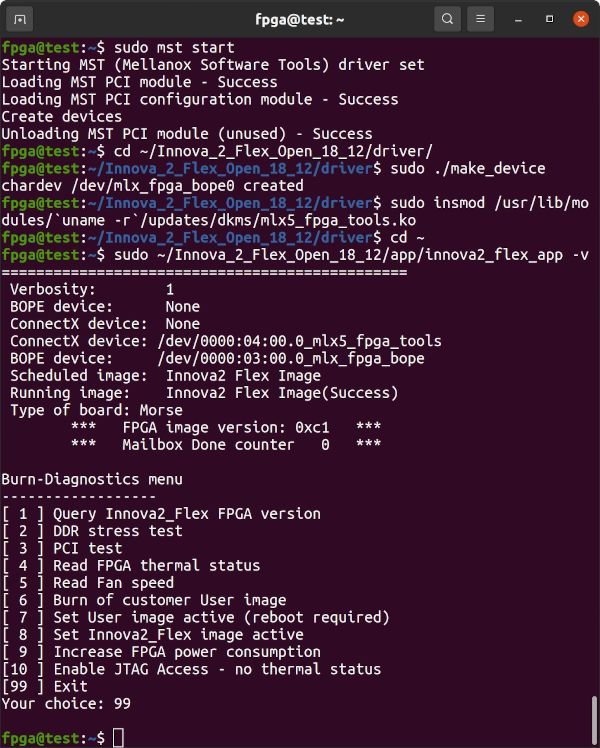
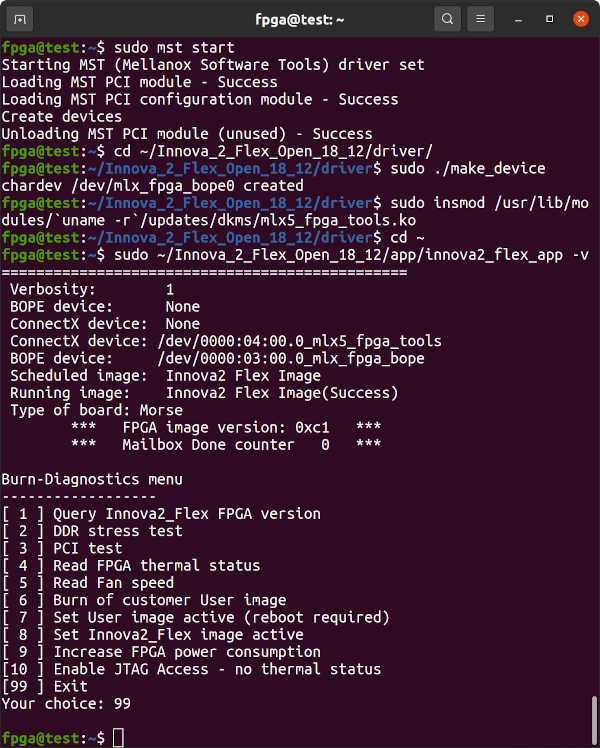
Reduce Image Size

diff --git a/README.md b/README.md
@@ -408,7 +408,7 @@ to
 network_devices = [network_class, cavium_pkx, avp_vnic, ifpga_class, xilinx_qdma_pf, xilinx_qdma_vf]
 ```
 
-![edit dpdk-devbind.py](img/editing_dpdk-devbind_py.png)
+![edit dpdk-devbind.py](img/editing_dpdk-devbind_py.jpg)
 
 
 Build DPDK:
@@ -484,7 +484,7 @@ Above should produce output similar to:
    Cause: No Ethernet devices found. Try updating the FPGA image.
 ```
 
-![QDMA testapp runs](img/qdma_testapp-shared_runs_successfully.png)
+![QDMA testapp runs](img/qdma_testapp-shared_runs_successfully.jpg)
 
 
 #### Generate Personal Signing Key
@@ -730,7 +730,7 @@ sudo mst status
 sudo flint --device /dev/mst/mt525_pciconf0 query
 ```
 
-![ConnectX-5 in Recovery Mode](img/Innova2_ConnectX-5_in_Recovery_Mode.png)
+![ConnectX-5 in Recovery Mode](img/Innova2_ConnectX-5_in_Recovery_Mode.jpg)
 
 Save a copy of the current FLASH IC firmware then program the ConnectX-5 firmare using `mstflint`. The device name is the PCI address from `lspci -vnn`
 ```
@@ -767,7 +767,7 @@ Program the ConnectX-5 firmare a second time using `mstflint`'s Write Image comm
 sudo mstflint --allow_rom_change  --device 01:00.0  --image fw-ConnectX5-rel-16_24_4020-MNV303212A-ADL_Ax.bin  burn
 ```
 
-![Update ConnectX-5 Firmware Using mstflint](img/mstflint_Update_Firmware.png)
+![Update ConnectX-5 Firmware Using mstflint](img/mstflint_Update_Firmware.jpg)
 
 Power cycle the Innova-2 system. Completely power off, wait 15 seconds, then power back on. Confirm the ConnectX-5 firmware has been updated.
 
@@ -835,7 +835,7 @@ Confirm FLASH IC reads are sensible. Notice the `ab cd ef 00 fa de 12 34 56 78 d
 od -A x -t x1z -v W25Q128save.bin  |  head
 ```
 
-![confirm flashrom reads are sensible](img/Confirm_flashrom_Reads_are_Sensible.png)
+![confirm flashrom reads are sensible](img/Confirm_flashrom_Reads_are_Sensible.jpg)
 
 If `flashrom` successfully detected the `W25Q128.V` and reads are consistent, then the requirement for sensible reads is a judgement call on your part.
 
@@ -869,7 +869,7 @@ sudo mlxfwreset --device /dev/mst/mt4119_pciconf0 reset
 sudo flint --device /dev/mst/mt4119_pciconf0 query
 ```
 
-![flint set GUID MAC](img/flint_set_GUID_and_MAC.png)
+![flint set GUID MAC](img/flint_set_GUID_and_MAC.jpg)
 
 Power down and restart your system.
 
@@ -886,7 +886,7 @@ sudo mst cable add
 sudo mlxcables
 ```
 
-![mlxcables](img/mlxcables.png)
+![mlxcables](img/mlxcables.jpg)
 
 The Innova-2 interfaces show up as `enp4s0f0` and `enp4s0f1` or similar.
 ```Shell
@@ -948,11 +948,11 @@ cd ~
 sudo ~/Innova_2_Flex_Open_18_12/app/innova2_flex_app -v
 ```
 
-![Flex Image Version](img/Flex_Image_Version.png)
+![Flex Image Version](img/Flex_Image_Version.jpg)
 
 If the FPGA Image is *NOT* Version `0xc1`, choose option `10`-enter to enable JTAG then `99`-enter to exit.
 
-![Enable JTAG](img/Enable_JTAG_Access.png)
+![Enable JTAG](img/Enable_JTAG_Access.jpg)
 
 
 
@@ -1032,7 +1032,7 @@ Select `mt25qu512-spi-x1_x2_x4_x8`.
 
 Program the complete memory images.
 
-![Program Complete Memory Image](img/Program_Complete_Memory_Image.png)
+![Program Complete Memory Image](img/Program_Complete_Memory_Image.jpg)
 
 Once programming finishes, which can take hours, power everything down and disconnect the JTAG adapter.
 
@@ -1066,7 +1066,7 @@ These instructions include a link to a bitstream for a working demo. Otherwise, 
 
 Select *bin*, *mt25qu512_x1_x2_x4_x8*, *SPIx8*, *Load bitstream files*, and a location and name for the output binary files. The bitstream will end up, for example, in the `DESIGN_NAME/DESIGN_NAME.runs/impl_1` subdirectory as `SOMETHING.bit`. Vivado will add the `_primary.bin` and `_secondary.bin` extensions as the Innova-2 uses dual MT25QU512 FLASH ICs in x8 for high speed programming.
 
-![Vivado Write Memory Configuration File](img/Vivado_Write_Memory_Configuration_File.png)
+![Vivado Write Memory Configuration File](img/Vivado_Write_Memory_Configuration_File.jpg)
 
 Before using `innova2_flex_app` for programming, **disconnect any JTAG adapter** (unplug its USB cable).
 
@@ -1116,7 +1116,7 @@ sudo ~/Innova_2_Flex_Open_18_12/app/innova2_flex_app -v \
   -b innova2_xdma_demo_secondary.bin,1
 ```
 
-![Program Innova-2 User Image](img/Program_User_Image.png)
+![Program Innova-2 User Image](img/Program_User_Image.jpg)
 
 Reboot your system.
 ```
@@ -1362,7 +1362,7 @@ sudo ./mlxup --version
 sudo ./mlxup
 ```
 
-![mlxup](img/mlxup.png)
+![mlxup](img/mlxup.jpg)
 
 The latest firmware [directy downloadable](http://www.mellanox.com/downloads/firmware/fw-ConnectX5-rel-16_26_4012-MNV303212A-ADL_Ax-UEFI-14.19.17-FlexBoot-3.5.805.bin.zip) from Nvidia/Mellanox is **16.26.4012** which is older than the version included with `mlxup 4.15.2`
 
@@ -1391,14 +1391,14 @@ The *Factory Image* (FLASH IC Address `0x00000000`) is *Running* even though the
 
 [Enable JTAG Access](#enable-jtag-access-to-the-xcku15p) and [program the FPGA Configuration Memory to factory default](#programming-the-fpga).
 
-![Factory Image Running](img/Factory_Image_Running_Enable_JTAG.png)
+![Factory Image Running](img/Factory_Image_Running_Enable_JTAG.jpg)
 
 
 ### Innova2 Flex App Will Not Program
 
 Confirm the ConnectX and BOPE Devices are present when running `innova2_flex_app -v`.
 
-![ConnectX and BOPE Devices Present](img/innova2_flex_app_ConnectX_and_BOPE_Devices.png)
+![ConnectX and BOPE Devices Present](img/innova2_flex_app_ConnectX_and_BOPE_Devices.jpg	)
 
 The ConnectX device is created by running `insmod /usr/lib/modules/5.8.0-43-generic/updates/dkms/mlx5_fpga_tools.ko`
 
@@ -1475,7 +1475,7 @@ Jump-to-Innova2-User menu
 Your choice: 99
 ```
 
-![insmod mlx5_fpga_tools](img/innova2_insmod_mlx5_fpga_tools_adds_ConnectX_Device.png)
+![insmod mlx5_fpga_tools](img/innova2_insmod_mlx5_fpga_tools_adds_ConnectX_Device.jpg)
 
 The `make_device` utility creates the BOPE device:
 
@@ -1514,7 +1514,7 @@ Burn-Diagnostics menu
 Your choice: 99
 ```
 
-![innova2 make_device adds BOPE Device](img/innova2_make_device_adds_BOPE_Device.png)
+![innova2 make_device adds BOPE Device](img/innova2_make_device_adds_BOPE_Device.jpg)
 
 Once both BOPE and ConnectX devices exist and the `Flex Image` is the Active Image, you can run `innova2_flex_app` with appropriate `-b` commands to [program a design into the FPGA](#loading-a-user-image). Note the `_primary.bin,0` and `_secondary.bin,1`. Choose option `6`-enter to program the design, then `7`-enter to set the User Image as active, then `99`-enter to exit.
 ```Shell
@@ -1588,7 +1588,7 @@ xsdb% Info: Hart #0 (target 3) Running (FPGA reprogrammed, wait for debugger res
 
 *JTAG Access* must be enabled before attempting to download programs to a Soft Processor Core in the FPGA using JTAG. `3`-Enter then `99`-Enter in `innova2_flex_app`.
 
-![Enable Innova-2 JTAG Access](img/enable_innova2_JTAG_access.png)
+![Enable Innova-2 JTAG Access](img/enable_innova2_JTAG_access.jpg)
 
 `xsdb` then works:
 
@@ -1610,7 +1610,7 @@ The board is well designed with all voltage rails exposed on test points. Carefu
 
 If you are experiencing PCIe communication problems, flip this setting in your BIOS.
 
-![Enable Resizable BAR Support](img/Enable_Re-Size_BAR_Support.png)
+![Enable Resizable BAR Support](img/Enable_Re-Size_BAR_Support.jpg)
 
 ### Disable or Enable Above-4G Memory Decoding
 
@@ -1673,7 +1673,7 @@ cd ~
 sudo ~/Innova_2_Flex_Open_18_12/app/innova2_flex_app -v
 ```
 
-![Enable JTAG on the Innova-2](img/UrJTAG_Enable_JTAG_on_Innova2_Flex.png)
+![Enable JTAG on the Innova-2](img/UrJTAG_Enable_JTAG_on_Innova2_Flex.jpg)
 
 #### Disconnect the Innova-2 FPGA from the PCIe Bridge
 
@@ -1682,14 +1682,14 @@ sudo ~/Innova_2_Flex_Open_18_12/app/innova2_flex_app -v
 sudo setpci  -s 02:08.0  0x70.w=0x50
 ```
 
-![Disconnect FPGA from PCIe Bridge](img/setpci_Disconnect_FPGA_from_PCIe_Bridge.png)
+![Disconnect FPGA from PCIe Bridge](img/setpci_Disconnect_FPGA_from_PCIe_Bridge.jpg)
 
 It can later be re-enabled with the following command or a cold reboot.
 ```Shell
 sudo setpci  -s 02:08.0  0x70.w=0x40
 ```
 
-![Disconnect FPGA from PCIe Bridge](img/setpci_Reconnect_FPGA_to_PCIe_Bridge.png)
+![Disconnect FPGA from PCIe Bridge](img/setpci_Reconnect_FPGA_to_PCIe_Bridge.jpg)
 
 
 #### Allow Vivado to Update Platform Cable USB II Firmware
@@ -1761,7 +1761,7 @@ exit
 
 `quit` exits UrJTAG
 
-![UrJTAG Session](img/UrJTAG_Session.png)
+![UrJTAG Session](img/UrJTAG_Session.jpg)
 
 
 
@@ -1789,7 +1789,7 @@ If all goes well your design will meet timing requirements:
 
 Taken from [ug575 UltraScale+ Device Packaging Pinouts](https://docs.xilinx.com/r/en-US/ug575-ultrascale-pkg-pinout).
 
-![XCKU15P FFVE1517 Banks](img/XCKU15P_FFVE1517_Banks.png)
+![XCKU15P FFVE1517 Banks](img/XCKU15P_FFVE1517_Banks.jpg)
 
 PCIe connections are on Quads 127 and 128 which are [GTY Transceivers](https://www.xilinx.com/support/documentation-navigation/design-hubs/dh0085-ultrascale-gty-tabbed-hub.html) `X0Y0`-to-`X0Y7`. OpenCAPI connections are on Quads 131 and 132 which are [GTY Transceivers](https://www.xilinx.com/support/documentation-navigation/design-hubs/dh0085-ultrascale-gty-tabbed-hub.html) `X0Y16`-to-`X0Y23`.
 
@@ -1811,15 +1811,15 @@ LEDs D18 and D19 are connected to pins B6 and A6, respectively, in Bank 90 of th
 
 `dmesg | grep -i xdma` will show you whether the Xilinx XDMA driver from *dma_ip_drivers* successully loaded for a PCIe-based FPGA design.
 
-![dmesg grep xdma](img/dmesg_xdma.png)
+![dmesg grep xdma](img/dmesg_xdma.jpg)
 
 `dmesg | grep -i mlx` will show you whether the Mellanox OFED drivers successully loaded for the ConnectX-5.
 
-![dmesg grep mlx](img/dmesg_mlx.png)
+![dmesg grep mlx](img/dmesg_mlx.jpg)
 
 `sudo lspci -tv | grep "Mellanox\|Xilinx"` displays a tree view of the PCIe bus.
 
-![lspci tree view](img/lspci_tree_view_Mellanox_and_Xilinx.png)
+![lspci tree view](img/lspci_tree_view_Mellanox_and_Xilinx.jpg)
 
 
 
